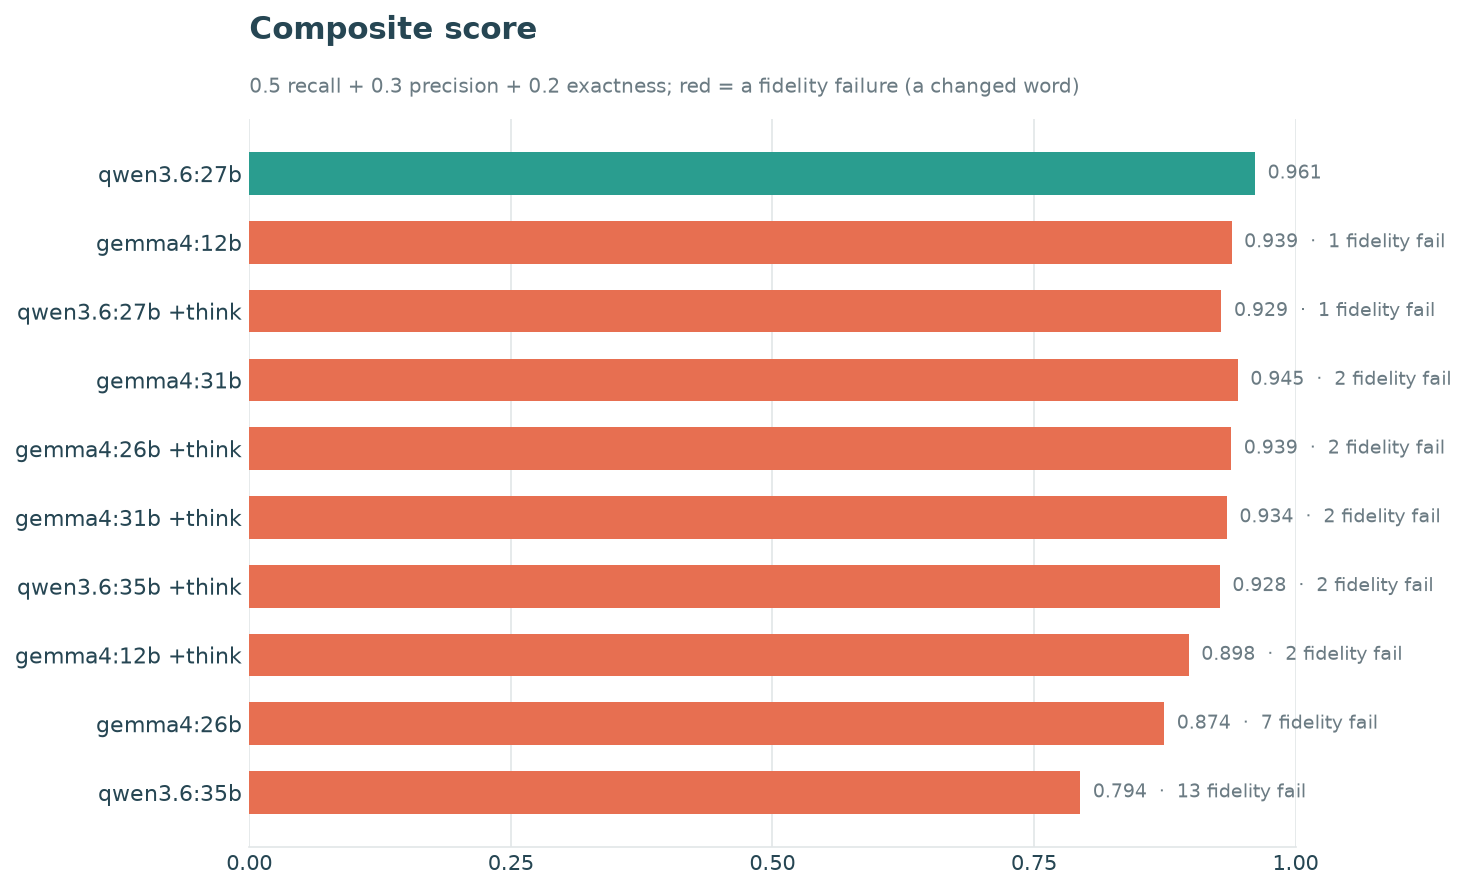
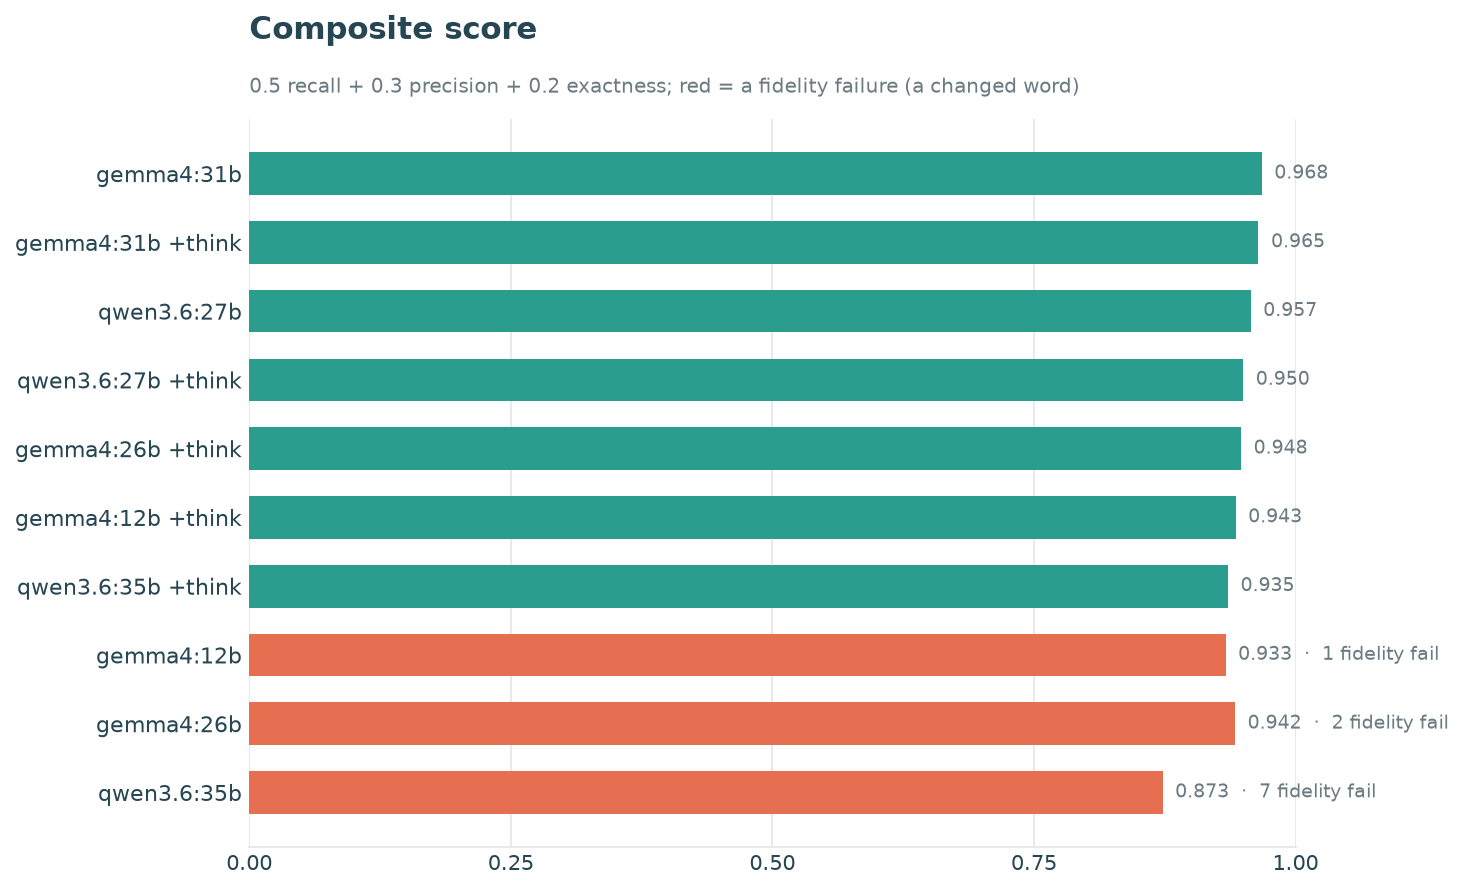
Refresh benchmark results to v5 and run preparation direct
Update the README example-results section (leaderboard, fidelity-failure
breakdown, reclassified ranking, charts) to the v5 prompt run, in which
fidelity failures fall 32 -> 10 and every +think config becomes clean;
frame the reasoning deep-dive as the v4 diagnosis that motivated v5.

Flip the production preparation provider to think=False: on v5, direct
gemma4:31b matches +think on fidelity (both clean), beats it on score and
exactness, and runs ~15x faster. Also drop a stale benchmark comment.

diff --git a/src/audiobook/benchmarking/run.py b/src/audiobook/benchmarking/run.py
@@ -114,9 +114,6 @@ class BenchmarkOptions:
     categories: tuple[str, ...] = ()
     case_ids: tuple[str, ...] = ()
     quick: bool = False
-    # Each model is scored once per think mode, so ``(False, True)`` compares a
-    # model with and without reasoning as two separately ranked entries. The
-    # default keeps thinking off, which is how the pipeline runs in production.
     think_modes: tuple[bool, ...] = (False,)
     # Models the provider says cannot think, so the thinking run is skipped for
     # them rather than filed as forty-eight identical provider errors.

diff --git a/src/audiobook/config.py b/src/audiobook/config.py
@@ -27,7 +27,7 @@ PREPARATION_PROVIDERS = {
         "base_url": "http://127.0.0.1:11434",
         "models": ("gemma4:31b",),
         "auto_pull": True,
-        "think": True,
+        "think": False,
     },
 }
 DEFAULT_PREPARATION_PROVIDER = "ollama"

diff --git a/README.md b/README.md
@@ -229,7 +229,7 @@ benchmark writes a timestamped directory under `output/benchmarks/` containing:
 ### Example results
 
 The table and charts below are one real run of the full corpus (2026-07-22,
-provider `ollama`, prompt `narration-preparation-v4`, 48 cases × 2 repetitions,
+provider `ollama`, prompt `narration-preparation-v5`, 48 cases × 2 repetitions,
 model-native sampling) across the shipped Gemma models and a few larger
 alternatives, each scored direct and with reasoning enabled (`+think`). Models
 are ranked by **fidelity failures** first — any unrequested change to a word the
@@ -239,23 +239,26 @@ changed word with extra coverage.
 
 | Model | Score | Cases passed | Fidelity failures | Recall | Precision | Exactness | Determinism | Mean s/case |
 |---|---:|---:|---:|---:|---:|---:|---:|---:|
-| `qwen3.6:27b` | 0.961 | 87/96 | 0 | 95.3% | 99.0% | 93.9% | 90.6% | 1.93 |
-| `gemma4:12b` | 0.939 | 86/96 | 1 | 92.9% | 99.2% | 91.1% | 92.7% | 1.14 |
-| `qwen3.6:27b +think` | 0.929 | 83/96 | 1 | 92.7% | 98.4% | 89.6% | 90.6% | 46.49 |
-| `gemma4:31b` | 0.945 | 87/96 | 2 | 95.8% | 97.9% | 94.8% | 97.9% | 2.13 |
-| `gemma4:26b +think` | 0.939 | 87/96 | 2 | 94.8% | 99.0% | 92.7% | 97.9% | 10.26 |
-| `gemma4:31b +think` | 0.934 | 85/96 | 2 | 94.8% | 99.0% | 90.6% | 97.9% | 32.08 |
-| `qwen3.6:35b +think` | 0.928 | 84/96 | 2 | 93.8% | 98.4% | 90.6% | 93.8% | 28.40 |
-| `gemma4:12b +think` | 0.898 | 80/96 | 2 | 89.6% | 99.0% | 85.4% | 97.9% | 17.27 |
-| `gemma4:26b` | 0.874 | 75/96 | 7 | 96.4% | 89.6% | 90.6% | 83.3% | 0.99 |
-| `qwen3.6:35b` | 0.794 | 67/96 | 13 | 92.7% | 81.4% | 88.5% | 51.7% | 1.87 |
+| `gemma4:31b` | 0.968 | 90/96 | 0 | 95.8% | 99.0% | 95.8% | 100.0% | 2.17 |
+| `gemma4:31b +think` | 0.965 | 89/96 | 0 | 95.8% | 100.0% | 92.7% | 95.8% | 31.78 |
+| `qwen3.6:27b` | 0.957 | 87/96 | 0 | 94.8% | 99.5% | 92.4% | 88.5% | 1.87 |
+| `qwen3.6:27b +think` | 0.950 | 87/96 | 0 | 93.8% | 100.0% | 90.6% | 91.7% | 49.19 |
+| `gemma4:26b +think` | 0.948 | 86/96 | 0 | 93.8% | 100.0% | 89.6% | 93.8% | 10.73 |
+| `gemma4:12b +think` | 0.943 | 86/96 | 0 | 92.7% | 100.0% | 89.6% | 91.7% | 20.84 |
+| `qwen3.6:35b +think` | 0.935 | 85/96 | 0 | 91.7% | 100.0% | 88.5% | 89.6% | 28.97 |
+| `gemma4:12b` | 0.933 | 86/96 | 1 | 92.7% | 99.1% | 90.6% | 92.7% | 1.17 |
+| `gemma4:26b` | 0.942 | 84/96 | 2 | 97.4% | 94.8% | 92.7% | 88.9% | 0.97 |
+| `qwen3.6:35b` | 0.873 | 78/96 | 7 | 93.8% | 92.0% | 91.7% | 62.0% | 1.73 |
 
-`qwen3.6:27b` is the only config with a clean fidelity record, and it is also
-among the fastest (1.93 s/case). The `+think` variants cost 10–46 s/case for no
-fidelity gain over their direct counterparts. Full per-`(model, case,
-repetition)` detail — every proposed edit, every flagged change, and each run's
-seed and timing — is in `benchmark.json`; the diffs behind every failure are in
-`comparison.md`.
+`gemma4:31b` takes clean first place — no fidelity failures and among the fastest
+at 2.17 s/case — and **seven of ten configs are now fidelity-clean**. The `+think`
+variants cost 10–49 s/case; on the strongest models they buy no fidelity gain
+over their direct counterparts, but on the two direct configs that over-edit
+(`gemma4:26b`, `qwen3.6:35b`) their restraint clears failures the direct run
+makes — see [Why reasoning scores lower](#why-reasoning-think-scores-lower).
+Full per-`(model, case, repetition)` detail — every proposed edit, every flagged
+change, and each run's seed and timing — is in `benchmark.json`; the diffs behind
+every failure are in `comparison.md`.
 
 ![Composite score per model; red marks a fidelity failure](docs/images/benchmark-scores.png)
 
@@ -267,78 +270,88 @@ passage it disturbed (noop) or a trap it fell for.
 
 Mean wall time per case makes the price of reasoning legible: the `+think`
 variants sit far to the right, several times slower per unit for a fidelity gain
-that, here, they do not always deliver.
+that, on the strongest models, they do not deliver — those are already clean
+without it.
 
 ![Mean seconds per case, fastest first](docs/images/benchmark-speed.png)
 
 ### Fidelity failures in detail
 
 The composite score treats every fidelity failure alike — a changed word is a
-changed word — but they are not equally harmful to a finished audiobook. This run
-had 32 fidelity-failing case-runs out of 960, and they fall into three very
-different kinds:
+changed word — but they are not equally harmful to a finished audiobook. This v5
+run had **10 fidelity-failing case-runs out of 960, down from 32 under v4**, and
+the largest v4 category has vanished outright:
 
-1. **Deleting an editorial bracket (14 of 32, across 8 of 10 models).** In
-   `trap-005` a model asked to strip the endnote marker `[7]` also strips the
-   ` [sic]` beside a preserved eighteenth-century spelling. This is the mildest
-   kind — `[sic]` is never spoken and *publick* is a homophone of *public*, so the
-   audio is unchanged — but it is a deliberate trap: the model cannot tell a page
-   artifact (`[7]`, which should go) from a meaning-bearing bracket (`[sic]`,
-   which must stay).
-2. **Spelling out figures that already read aloud (4 of 32).** `35` →
-   `thirty-five`, `4,000` → `four thousand`, `200` → `two hundred`, `17.4` →
-   `seventeen point four`. The TTS speaks either form identically, so a listener
-   hears no difference; these are unnecessary edits, not wrong ones. Only
-   `gemma4:26b` and `qwen3.6:35b` did this.
-3. **Genuine corruption (nearly all of `qwen3.6:35b`'s failures).** Fabricated
-   text (inserting `, or tax`), deleted author clauses (dropping ` if you could
-   unroll it,`), and words mangled mid-token (`“I’m not being c` → `C`). These
-   make the book say something the author did not write. Combined with its 51.7%
-   determinism, this is the one genuinely non-viable model in the field.
+1. **Deleting an editorial bracket — eliminated (0, was 14 under v4).** The single
+   commonest failure under v4 was a model asked to strip the endnote marker `[7]`
+   also stripping the ` [sic]` beside a preserved eighteenth-century spelling. v5
+   names the exception — editorial insertions such as `[sic]`, `[ed.]`, `[recte …]`
+   stay while numeric markers go — and **not one model tripped it this run.** This
+   is the change the prompt lessons below were written for.
+2. **Reformatting text that already reads the same aloud (4 of 10).** `4,000` →
+   `four thousand`, `200` → `two hundred`, a `metre` → `meter` spelling swap, and
+   `recognise` → `recognize`. The TTS speaks either form identically, so a
+   listener hears no difference; these are unnecessary edits, not wrong ones.
+   `gemma4:12b` did it once, `gemma4:26b` twice, `qwen3.6:35b` once — all on the
+   same one or two passages.
+3. **Genuine corruption (6 of 10, every one `qwen3.6:35b` run direct).** Deleted
+   words (`footnote `, and a whole parenthetical `(she never forgave him for
+   it)`), "corrected" dialect the corpus marks as intentional, and words mangled
+   mid-token (`ever wr` dropped, `er` → `tud`, `e` → `i`). These make the book say
+   something the author did not write. Combined with its 62% determinism,
+   `qwen3.6:35b` run direct remains the one genuinely non-viable config in the
+   field.
 
-The count column, in other words, conflates a designed-trap miss, an
-audio-identical reformat, and real text corruption. Kinds 1 and 2 together
-account for 18 of the 32 failures; the model you would actually ship
-(`qwen3.6:27b`) had none of any kind.
+The count column still conflates an audio-identical reformat with real
+corruption — but the mildest, commonest v4 category is gone. Kinds 1 and 2 were
+18 of 32 failures under v4 and are just 4 of 10 here, all of them harmless; the
+remaining 6 are one model's corruption. The configs you would actually ship —
+`gemma4:31b`, `qwen3.6:27b`, and every `+think` variant — had no failures of any
+kind.
 
 ### Ranking with meaning-preserving reformatting reclassified
 
-Kinds 1 and 2 above — deleting `[sic]` and spelling out a figure that reads the
-same aloud — change nothing a listener hears, so they can be treated as
-*permitted* edits rather than fidelity failures. Re-scoring so those cases are no
-longer zeroed (and no longer counted against precision) gives this ranking; the
-final column is each model's fidelity-failure count under the default, strict
-scoring:
+Kind 2 above — reformatting text that reads the same aloud — changes nothing a
+listener hears, so those edits can be treated as *permitted* rather than fidelity
+failures. (Kind 1, deleting `[sic]`, no longer occurs under v5, so it drops out of
+this lens entirely.) Re-scoring so the kind-2 cases are no longer zeroed (and no
+longer counted against precision) gives this ranking; the final column is each
+model's fidelity-failure count under the default, strict scoring:
 
 | # | Model | Score | Cases passed | Fidelity failures | Was |
 |---:|---|---:|---:|---:|---:|
-| 1 | `gemma4:31b` | 0.966 | 89/96 | 0 | 2 |
-| 2 | `qwen3.6:27b` | 0.961 | 87/96 | 0 | 0 |
-| 3 | `gemma4:26b +think` | 0.959 | 89/96 | 0 | 2 |
-| 4 | `gemma4:31b +think` | 0.955 | 87/96 | 0 | 2 |
-| 5 | `qwen3.6:35b +think` | 0.948 | 86/96 | 0 | 2 |
-| 6 | `qwen3.6:27b +think` | 0.940 | 84/96 | 0 | 1 |
-| 7 | `gemma4:12b +think` | 0.919 | 82/96 | 0 | 2 |
-| 8 | `gemma4:12b` | 0.939 | 86/96 | 1 | 1 |
-| 9 | `gemma4:26b` | 0.937 | 81/96 | 1 | 7 |
-| 10 | `qwen3.6:35b` | 0.826 | 70/96 | 10 | 13 |
+| 1 | `gemma4:31b` | 0.968 | 90/96 | 0 | 0 |
+| 2 | `gemma4:31b +think` | 0.965 | 89/96 | 0 | 0 |
+| 3 | `gemma4:26b` | 0.963 | 86/96 | 0 | 2 |
+| 4 | `qwen3.6:27b` | 0.957 | 87/96 | 0 | 0 |
+| 5 | `qwen3.6:27b +think` | 0.950 | 87/96 | 0 | 0 |
+| 6 | `gemma4:26b +think` | 0.948 | 86/96 | 0 | 0 |
+| 7 | `gemma4:12b` | 0.944 | 87/96 | 0 | 1 |
+| 8 | `gemma4:12b +think` | 0.943 | 86/96 | 0 | 0 |
+| 9 | `qwen3.6:35b +think` | 0.935 | 85/96 | 0 | 0 |
+| 10 | `qwen3.6:35b` | 0.883 | 79/96 | 6 | 7 |
 
-Seven of ten configs are now clean on fidelity. `gemma4:26b` is the largest
-beneficiary — six of its seven failures were kinds 1 and 2, lifting it from 0.874
-to 0.937 — and `gemma4:31b` edges into first. The fidelity-first sort is why
-`gemma4:12b` at 0.939 still ranks below `gemma4:12b +think` at 0.919: one
-remaining fidelity failure outranks a higher score. Three genuine failures
-survive the reclassification — `gemma4:12b` rewriting a lettered-list marker
-(`; (b)` → `secondly,`), `gemma4:26b` swapping an em-dash for `, with`, and the
-ten remaining corruptions in `qwen3.6:35b`. The two strongest models are
-unchanged either way, and `+think` still does not earn its latency.
+Because v5 eliminated the `[sic]` deletions, the reclassification now touches only
+the four audio-identical reformats, so it barely moves the board. `gemma4:26b` is
+the one real beneficiary — both its failures were kind 2, lifting it from 0.942 to
+0.963 and into third — and `gemma4:12b`'s single failure clears (0.933 → 0.944).
+`qwen3.6:35b` run direct drops from seven fidelity failures to six: one of its
+seven was a spelled-out figure, the other six are genuine corruption this lens
+does not forgive. Nine of ten configs are now clean, and the two strongest were
+already clean under strict scoring, so they do not move.
 
 This reclassification is an analysis lens, not how the benchmark scores by
-default: the shipped scorer counts both kinds as fidelity failures, on the
+default: the shipped scorer counts kind 2 as a fidelity failure too, on the
 principle that an unrequested edit is a risk even when this particular instance
 is harmless.
 
 ### Why reasoning (`+think`) scores lower
+
+The run dissected in this section is the earlier **v4** prompt — the last before
+the fix it motivated. On v5 (the leaderboard above) every `+think` config is
+fidelity-clean; the edit counts, failure modes, and traces below are the v4
+diagnosis that got us there, and the prompt lessons and A/B result at the end of
+the section report how it turned out.
 
 Enabling reasoning made the *strongest* models slightly worse, which is
 counter-intuitive enough to be worth explaining. The effect is not universal:
@@ -433,14 +446,22 @@ traces above:
 These four changes now ship as `narration-preparation-v5`. The prompt is
 versioned rather than overwritten — v4 is kept frozen beside it — so the two can
 be scored against the same corpus and compared directly with
-`benchmark --prompt-version`. A spot-check on the two cases from the traces above
-bears out the diagnosis: `gemma4:12b +think` scores 0.150 under v4 (0/2 passed,
-one fidelity failure — it misses the ligature *and* deletes `[sic]`) and 1.000
-under v5 (2/2, no fidelity failures — it fixes `ﬁ` → `fi` / `ﬂ` → `fl` and keeps
-`[sic]`). The remaining step is the full rerun across every model, v4 against v5,
-to confirm the `+think` recall gap closes corpus-wide and that protecting editorial
-brackets introduces no regression elsewhere — the complete test of the hypothesis
-above.
+`benchmark --prompt-version`. The full rerun — every model, v4 against v5, same
+corpus and seeds — bears out the diagnosis corpus-wide. Fidelity failures summed
+across all ten configurations fall from **32 under v4 to 10 under v5**, and the
+count of fidelity-clean configurations rises from **one to seven**. The sharpest
+confirmation is in the reasoning runs the lessons were written for: **all five
+`+think` configurations, each of which logged one or two fidelity failures under
+v4, drop to zero under v5** — the `+think` regressions were the prompt
+over-restraining a faithful model, exactly as the traces suggested, and naming
+the mechanical fixes and the editorial-bracket exception removes them. `gemma4:31b`
+goes from 0.945 with two fidelity failures to **0.968 with none**, taking clean
+first place. The failures that remain are model behaviour rather than prompt gaps:
+`qwen3.6:35b` run direct still over-edits (thirteen fidelity failures down to
+seven, from proposing ~108 edits where the calibrated models settle near 65), and
+`gemma4:26b` run direct still trips two "reads-aloud-identically" traps
+(measurements, separated figures) — neither is something the prompt can spell
+away. Protecting the editorial brackets introduced no regression elsewhere.
 
 Add `--think both` to score each model twice — once direct, once with reasoning
 enabled — as two separately ranked entries (`gemma4:12b` and `gemma4:12b